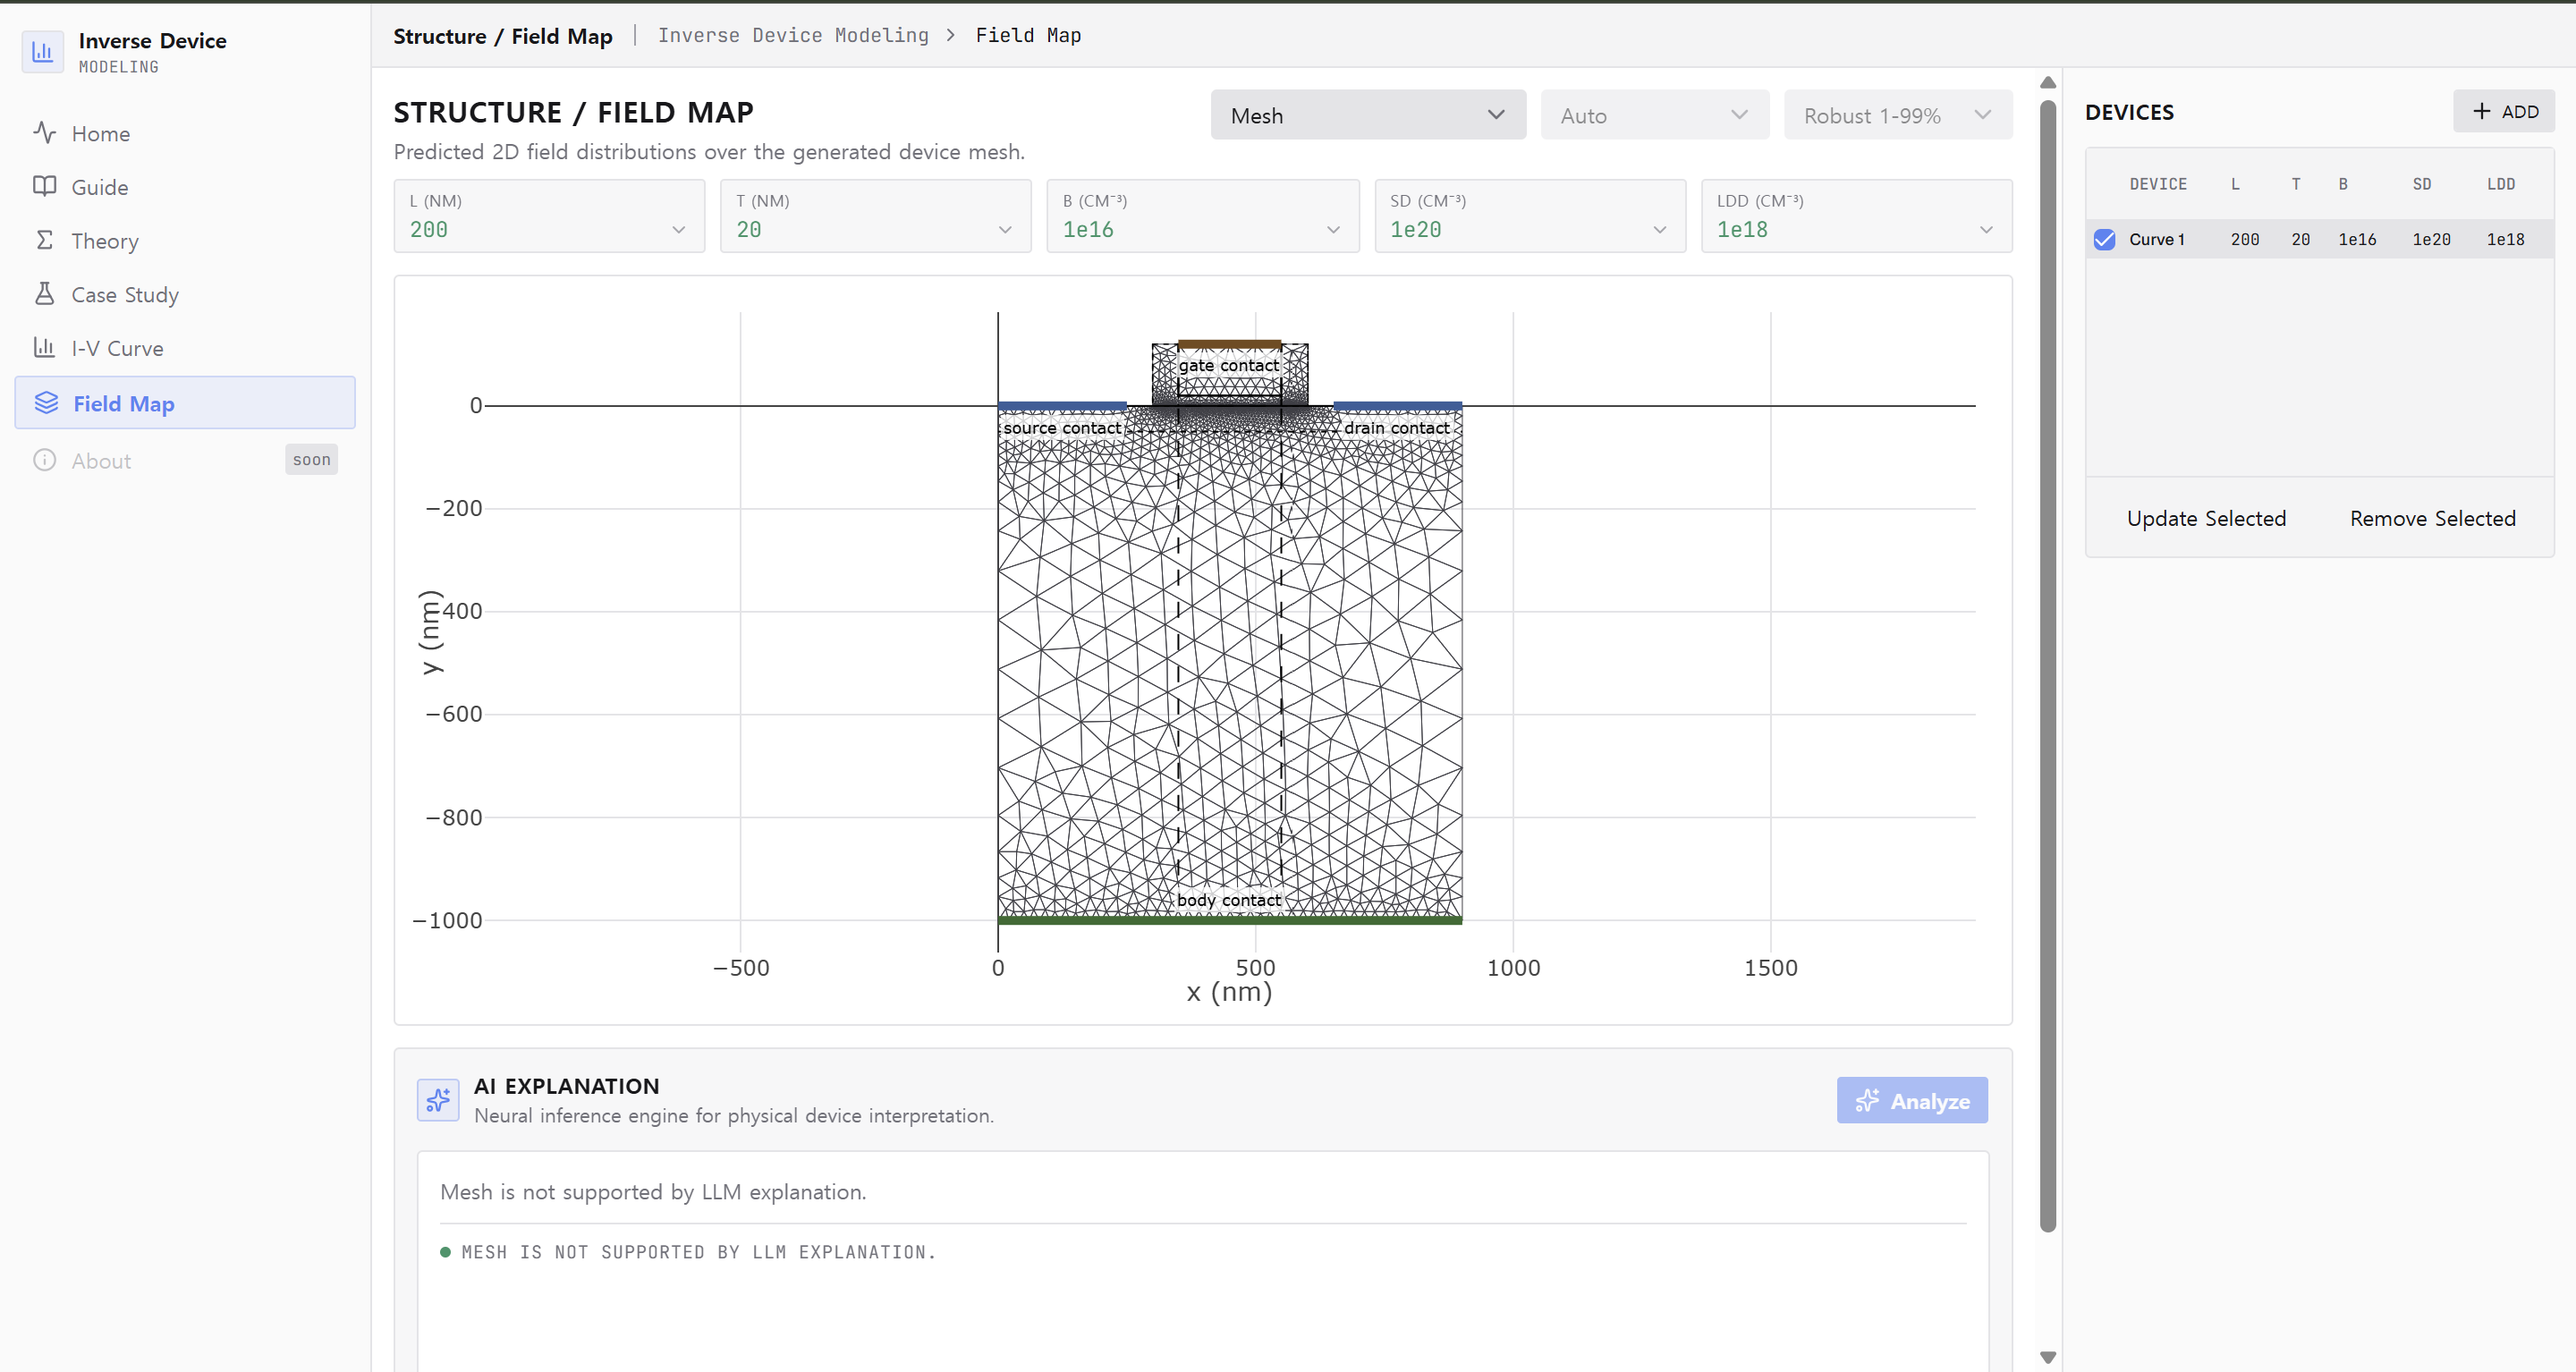
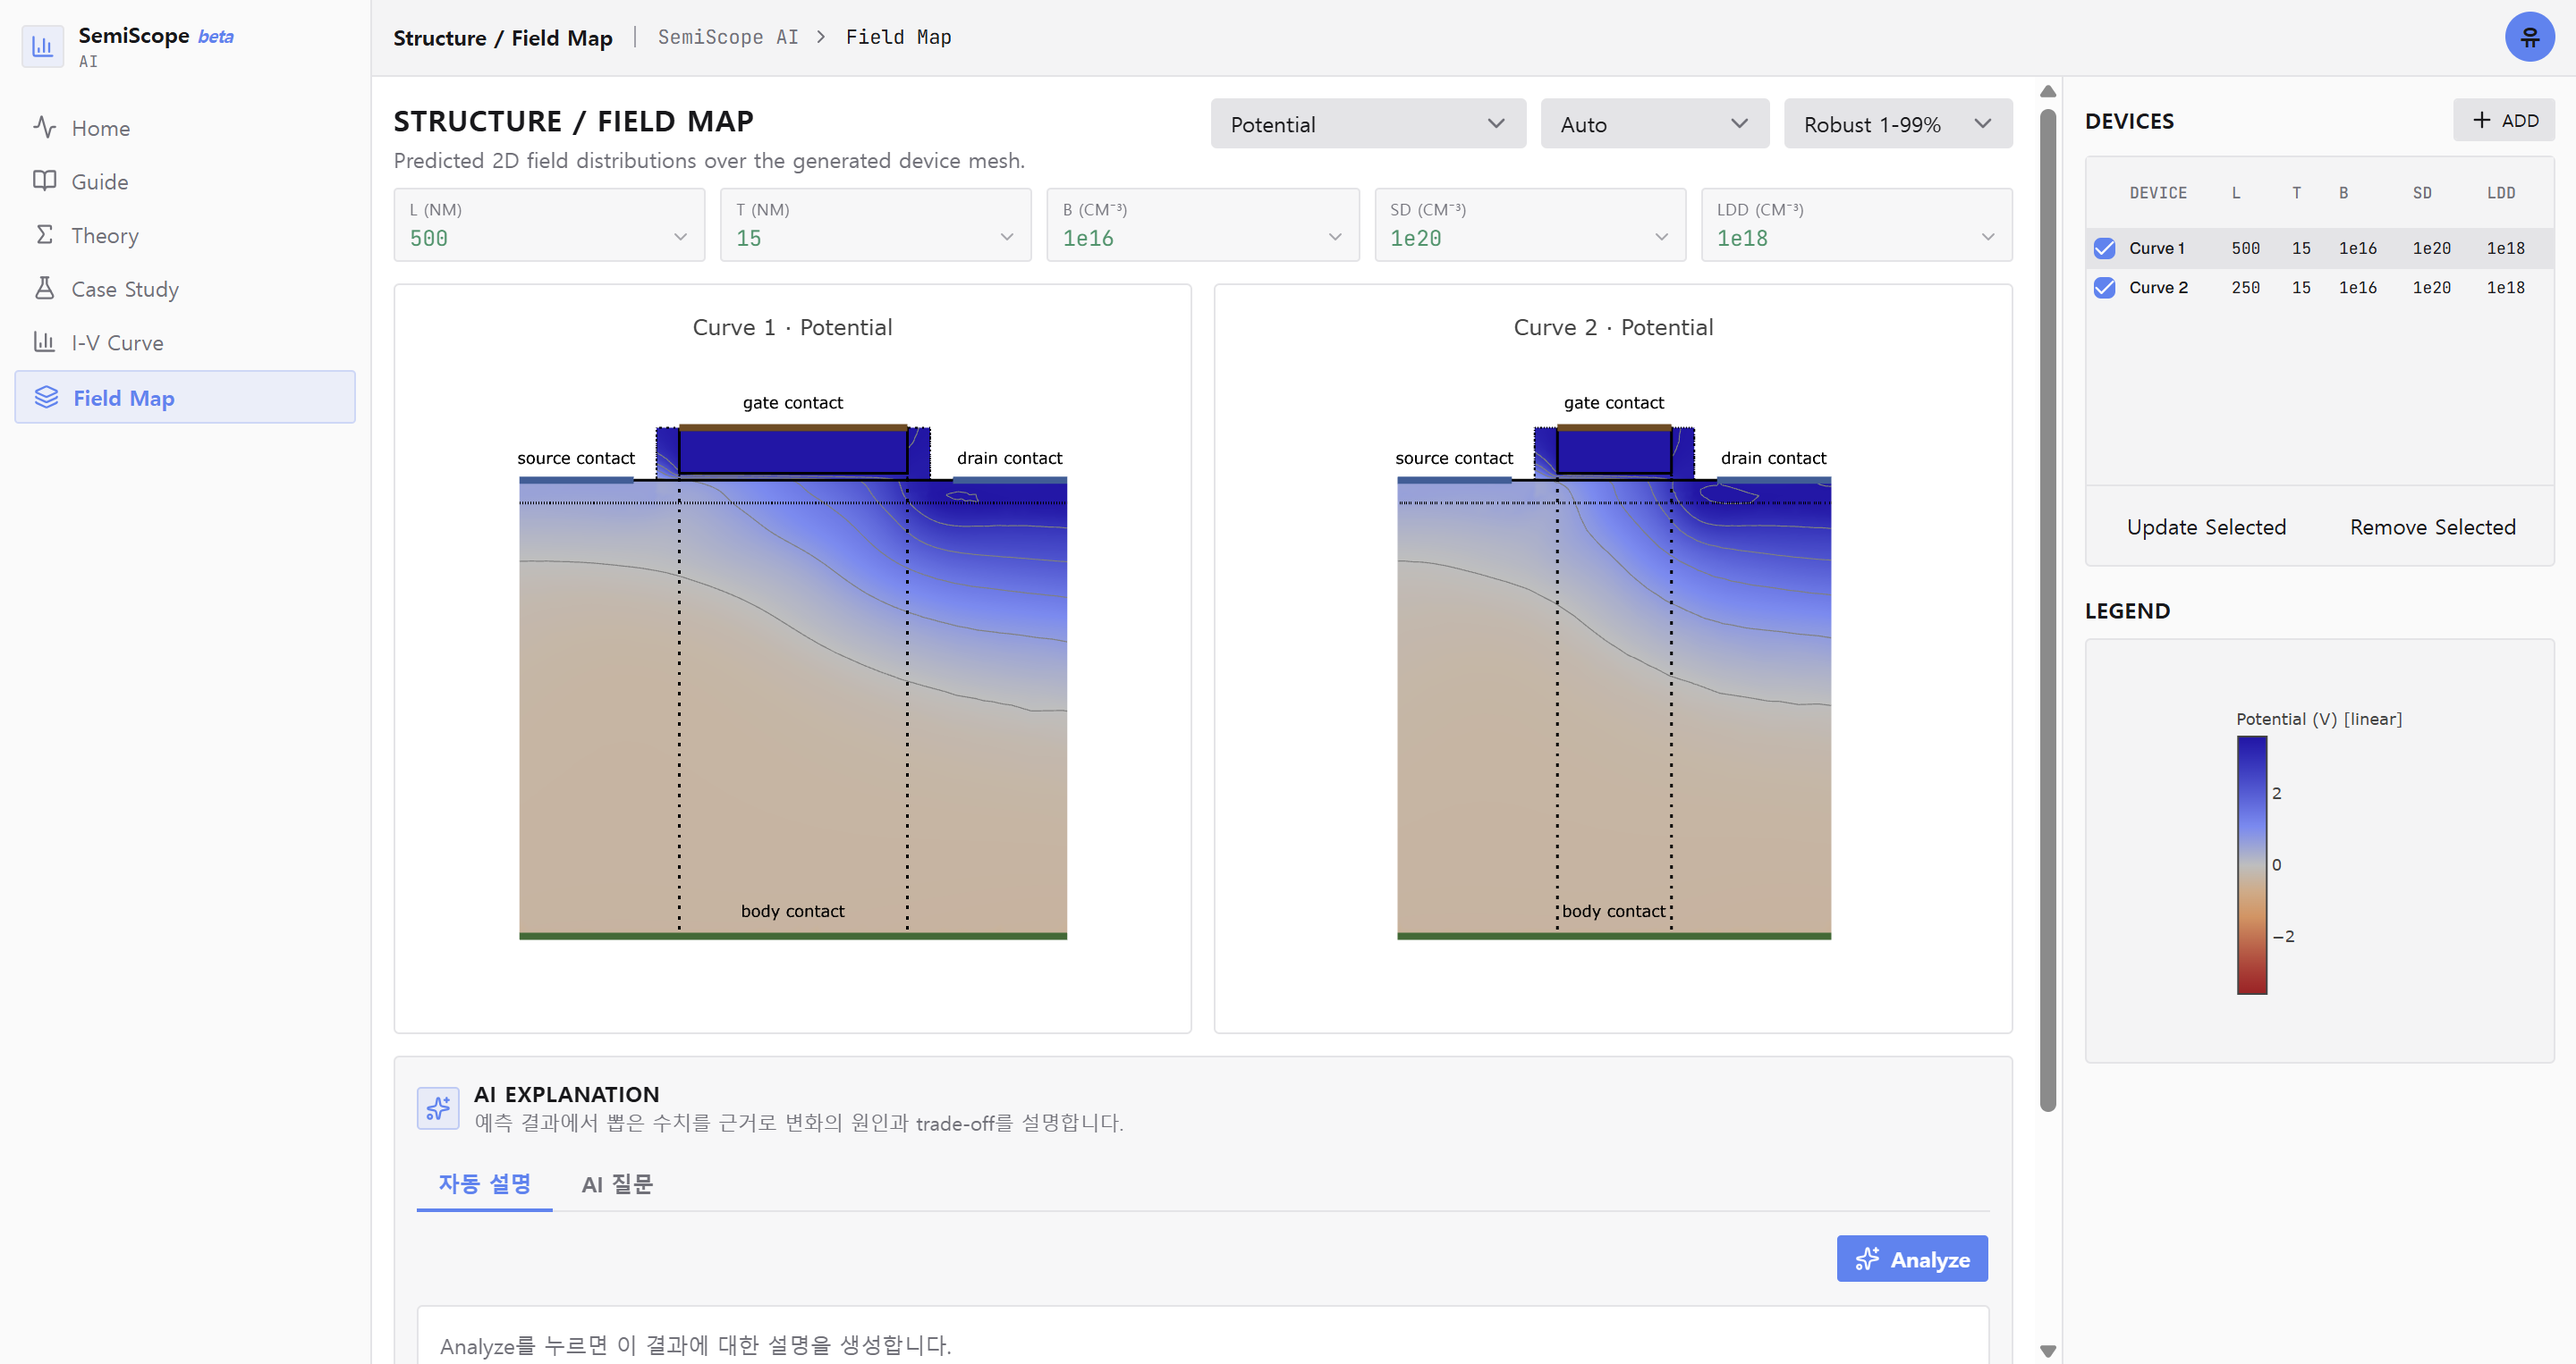
docs: point the Guide's screenshot markers at the current screens
New captures replace the ones from early August, so the markers had to
move with them and a few things worth pointing at had appeared since.

I-V Curve gains three. The log toggle is where Ioff and the
subthreshold slope become readable at all, which is easy to miss on a
linear axis. The two tabs are named, since the free-form questions had
no marker before and nothing on the page says what the second tab is
for. Analyze gets its own marker rather than sharing one with the tab
that contains it.

Field Map gains the device checkboxes and the colorbar. The colorbar
matters more than it looks: the compare view concatenates every
device's values and normalizes them together
(compute_display_payload_multi), so both panels really are on one
scale and can be read against each other directly -- which is the
whole point of putting them side by side, and was not said anywhere.
The panel marker also mentions the contour lines, added after the old
screenshot was taken.

"디바이스 파라미터" becomes "소자 조건" to match what the rest of the
Guide and the Case Study screens call it.

diff --git a/web/src/pages/GuidePage.tsx b/web/src/pages/GuidePage.tsx
@@ -144,17 +144,19 @@ export default function GuidePage() {
               </CardTitle>
             </CardHeader>
             <CardContent>
-              {/* 설명 문구는 현재 화면 기준이지만 이미지와 마커 좌표(xPct/yPct)는
-                  다시 찍어 맞춰야 한다 — 아래 Field Map도 같다. */}
+              {/* 마커 좌표는 이미지 가로·세로 기준 퍼센트다. 화면을 고쳐 다시
+                  찍으면 여기도 함께 맞춰야 한다 — 아래 Field Map도 같다. */}
               <AnnotatedScreenshot
                 src="/guide/iv-curve.png"
                 alt="I-V Curve 페이지 화면"
                 callouts={[
-                  { xPct: 21.4, yPct: 15.5, label: "디바이스 파라미터(L, T, B, SD, LDD)를 입력합니다." },
-                  { xPct: 97.2, yPct: 7.9, label: "Add를 눌러 입력한 조건을 커브 목록에 추가합니다." },
-                  { xPct: 82.5, yPct: 17.2, label: "체크박스로 비교할 커브를 선택·해제합니다." },
-                  { xPct: 90, yPct: 61.1, label: "선택한 커브에서 추출된 Vth, Ion, Ioff 등 전기적 파라미터를 확인합니다." },
-                  { xPct: 75.2, yPct: 67, label: "자동 설명 탭에서 Analyze를 누르면 AI가 변화의 원인과 trade-off를 해석합니다." },
+                  { xPct: 46.7, yPct: 16.6, label: "소자 조건(L, T, B, SD, LDD)을 입력합니다." },
+                  { xPct: 97.1, yPct: 8.8, label: "Add를 눌러 입력한 조건을 커브 목록에 추가합니다." },
+                  { xPct: 81.7, yPct: 19.7, label: "체크박스로 비교할 커브를 선택·해제합니다. 선택한 커브만 그래프와 표에 반영됩니다." },
+                  { xPct: 76.1, yPct: 23.8, label: "Log를 누르면 세로축이 로그 스케일로 바뀝니다. Ioff와 Subthreshold 기울기는 이 상태에서 봐야 보입니다." },
+                  { xPct: 90.0, yPct: 63.7, label: "선택한 커브들의 Vth, Ion, Ioff, SS, DIBL 등 전기적 파라미터를 나란히 비교합니다." },
+                  { xPct: 21.3, yPct: 73.7, label: "자동 설명은 결과를 한 번에 정리해 주고, AI 질문은 그 결과에 대해 이어서 묻는 대화입니다." },
+                  { xPct: 74.2, yPct: 79.0, label: "Analyze를 누르면 변화의 원인과 trade-off 해석이 생성됩니다." },
                 ]}
               />
             </CardContent>
@@ -176,10 +178,12 @@ export default function GuidePage() {
                 src="/guide/field-map.png"
                 alt="Field Map 페이지 화면"
                 callouts={[
-                  { xPct: 21.3, yPct: 16.7, label: "동일하게 디바이스 파라미터를 입력합니다." },
-                  { xPct: 63.3, yPct: 8.5, label: "표시할 물리량과 컬러 스케일, 표시 범위를 선택합니다." },
-                  { xPct: 47.5, yPct: 47, label: "선택한 조건으로 생성된 소자 단면과 물리량 분포를 확인합니다." },
-                  { xPct: 97.2, yPct: 8.2, label: "Add로 다른 조건의 소자를 추가해 나란히 비교합니다." },
+                  { xPct: 46.7, yPct: 16.4, label: "동일하게 소자 조건을 입력합니다." },
+                  { xPct: 97.1, yPct: 8.8, label: "Add로 다른 조건의 소자를 추가해 나란히 비교합니다." },
+                  { xPct: 81.7, yPct: 19.6, label: "체크박스로 비교할 소자를 선택·해제합니다." },
+                  { xPct: 64.3, yPct: 9.1, label: "표시할 물리량(Potential, Electric Field, 캐리어 분포 등)과 컬러 스케일, 표시 범위를 선택합니다." },
+                  { xPct: 30.8, yPct: 47.2, label: "생성된 소자 단면 위에 물리량 분포가 그려집니다. 등고선을 따라가면 값이 급격히 변하는 영역을 찾을 수 있습니다." },
+                  { xPct: 90.0, yPct: 62.3, label: "컬러바에서 색과 실제 값의 대응을 확인합니다. 두 소자는 같은 범위로 그려져 그대로 비교할 수 있습니다." },
                 ]}
               />
             </CardContent>
